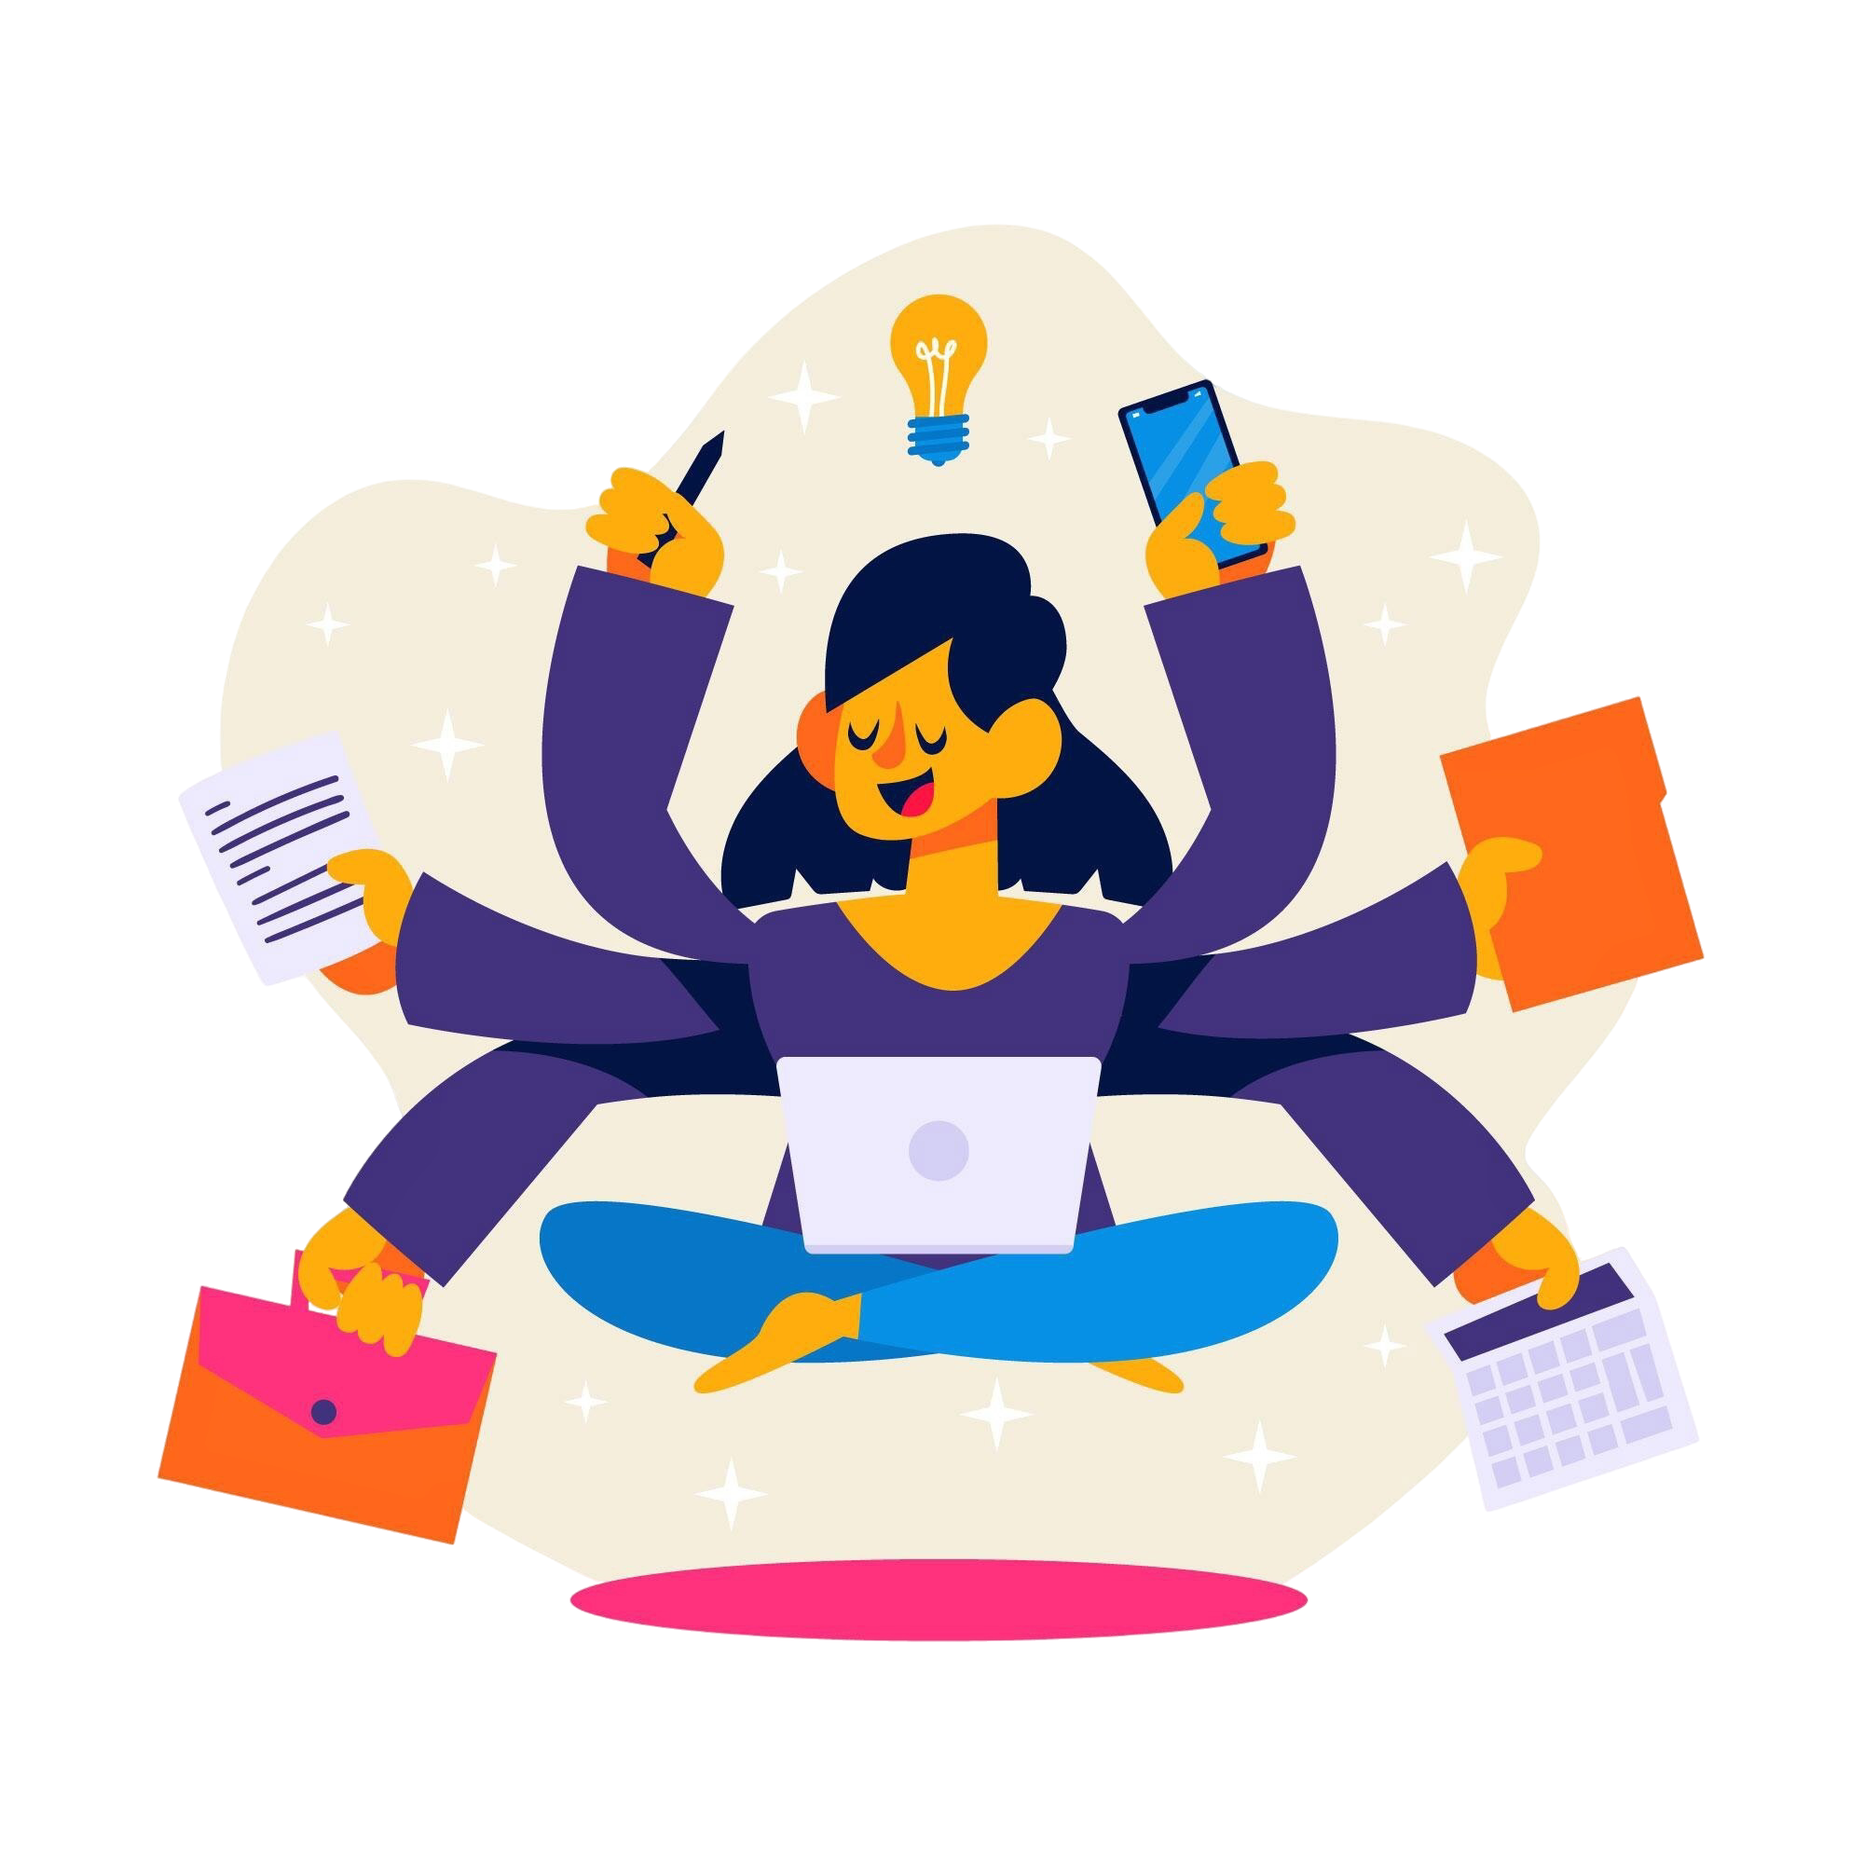
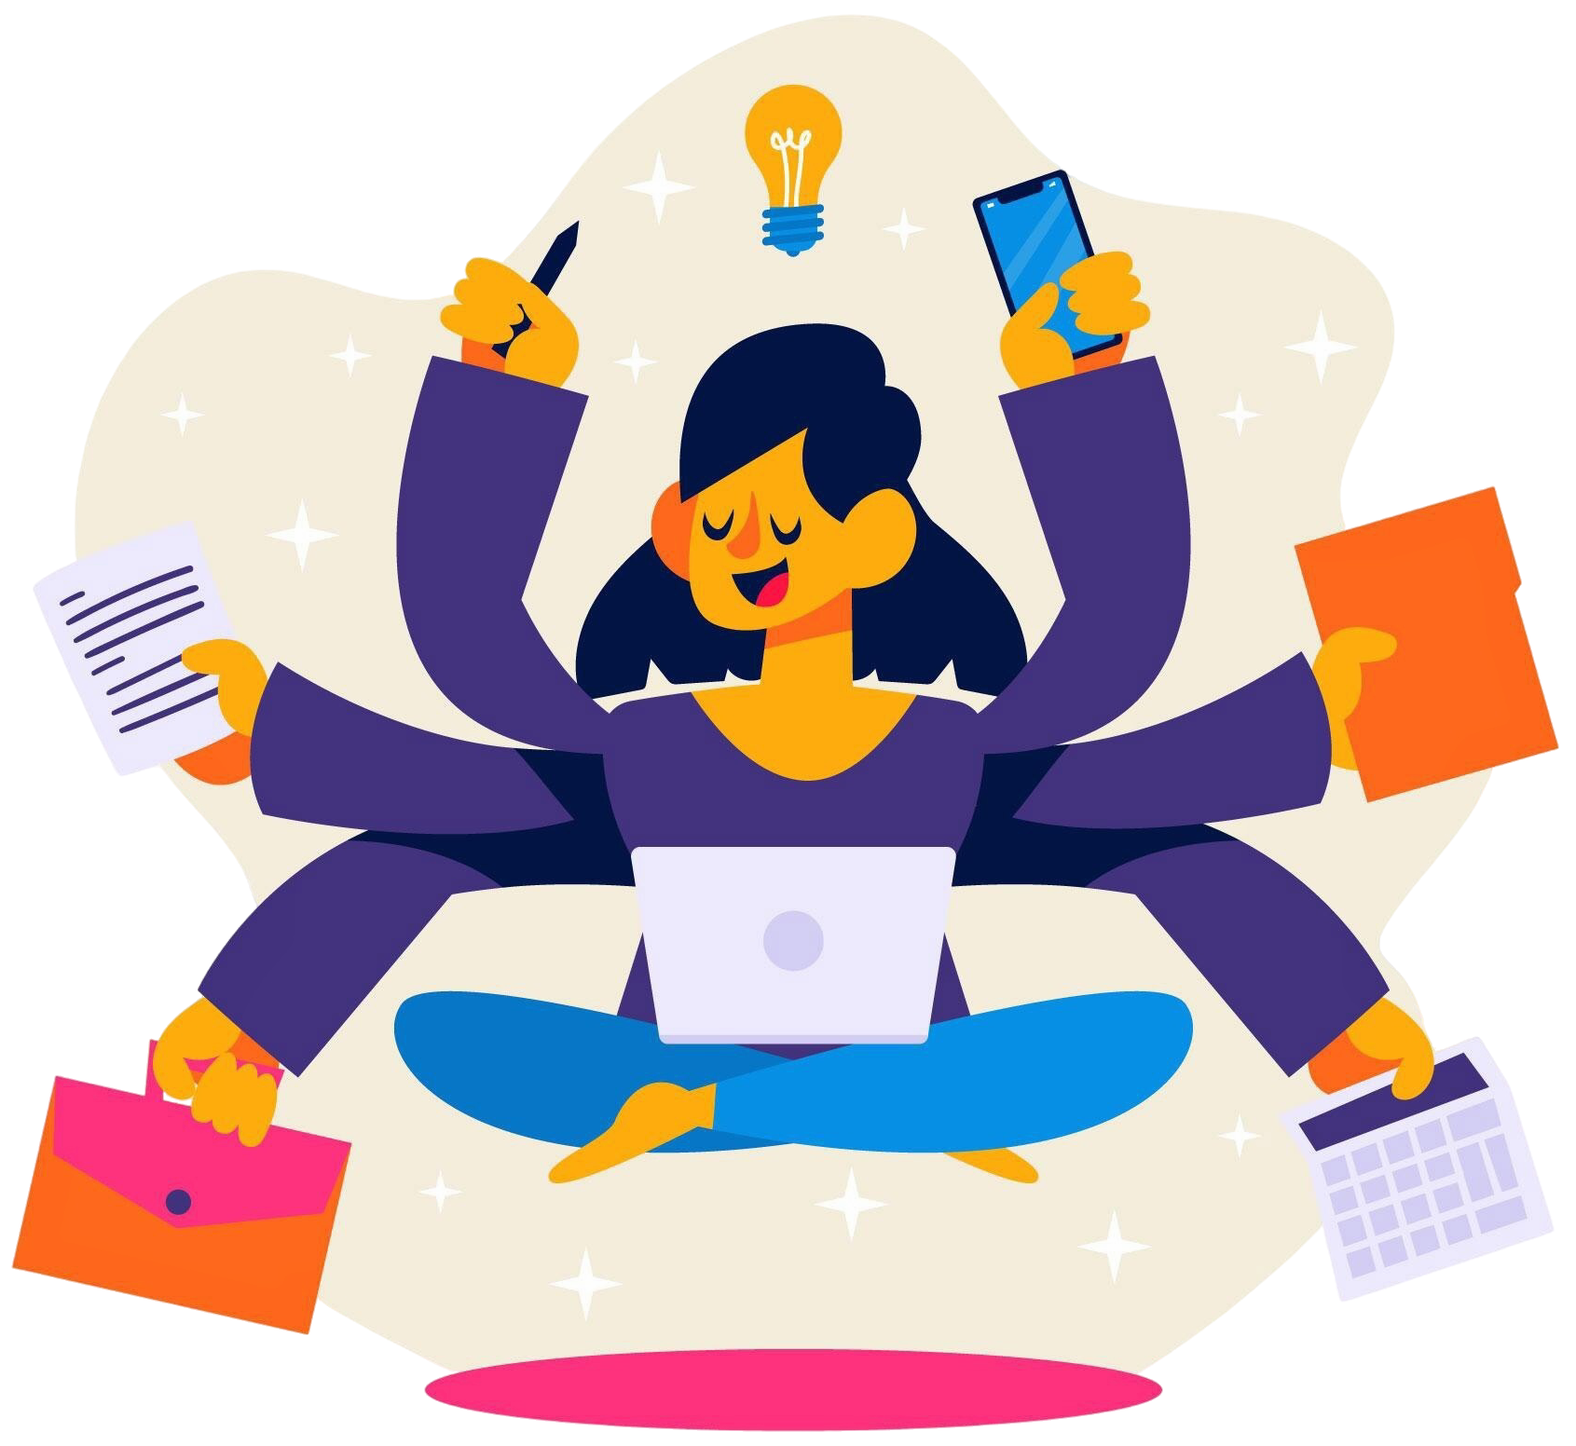
not found page and changes in images

diff --git a/src/pages/DashboardFooter.tsx b/src/pages/DashboardFooter.tsx
@@ -1,14 +1,23 @@
-import { Mail, MapPin, Phone, Shrub } from "lucide-react";
-import { Link } from "react-router-dom";
+import { Github, GraduationCap, Linkedin, LinkedinIcon, LogOut, LucideLinkedin, Mail, MapPin, Phone, Shrub } from "lucide-react";
+import { Link, useNavigate } from "react-router-dom";
+import { useAuth } from "../contexts/AuthContext";
 
 const DashboardFooter = () => {
+    const navigate = useNavigate();
+    const { user, logout } = useAuth();
+
+    const handleLogout = () => {
+        logout();
+        navigate('/');
+    };
+
     return (
         <>
             <footer className="bg-white dark:bg-gray-800 text-deep-purple pt-10 pb-5 border-t">
                 <div className="container mx-auto px-6 text-center">
-                    <div className="max-w-6xl mx-auto grid grid-cols-1 md:grid-cols-3 gap-8 text-center md:text-left">
+                    <div className="max-w-6xl mx-auto grid grid-cols-1 md:grid-cols-2 lg:grid-cols-4 gap-8 text-center md:text-left">
                         <div>
-                            <Link to="/" className="text-xl font-bold text-dark-slate mb-4 font-poppins flex justify-center md:justify-start text-deep-purple dark:text-purple-400">GrowMate<Shrub className="ml-[2px] text-green-500 rotate-[15deg]" size={28} /></Link>
+                            <Link to="/" className="text-xl font-bold mb-4 font-poppins flex justify-center md:justify-start text-deep-purple dark:text-purple-400">GrowMate<Shrub className="ml-[2px] text-green-500 rotate-[15deg]" size={28} /></Link>
                             <p className="text-gray-600 dark:text-gray-200 leading-relaxed text-md opacity-90 font-inter">
                                 Dedicated to empowering individuals in their journey of self-improvement through effective habit tracking and motivation.
                             </p>
@@ -18,22 +27,15 @@ const DashboardFooter = () => {
                             <h3 className="text-xl font-bold text-dark-slate dark:text-purple-400 mb-4">Quick Links</h3>
                             <ul className="space-y-2">
                                 <li><Link to="/" className="text-deep-purple dark:text-white transition-colors font-medium inline-block border-deep-purple font-inter hover:text-teal dark:hover:text-teal duration-300">Home</Link></li>
-                                <li><Link to="about-us" className="text-deep-purple dark:text-white transition-colors font-medium inline-block border-deep-purple font-inter hover:text-teal dark:hover:text-teal duration-300">About Us</Link></li>
+                                <li><Link to="/about-us" className="text-deep-purple dark:text-white transition-colors font-medium inline-block border-deep-purple font-inter hover:text-teal dark:hover:text-teal duration-300">About Us</Link></li>
                                 <li>
-                                    <Link
-                                        to="/login"
-                                        className="text-deep-purple dark:text-white transition-colors font-medium inline-block border-deep-purple font-inter hover:text-teal dark:hover:text-teal duration-300"
+                                    <button
+                                        onClick={handleLogout}
+                                        className="flex items-center rounded-tr-lg rounded-bl-lg text-red-400 transition-colors"
                                     >
-                                        Sign In
-                                    </Link>
-                                </li>
-                                <li>
-                                    <Link
-                                        to="/signup"
-                                        className="text-deep-purple dark:text-white transition-colors font-medium inline-block border-deep-purple font-inter hover:text-teal dark:hover:text-teal duration-300"
-                                    >
-                                        Sign Up
-                                    </Link>
+                                        <span className="font-medium font-inter mr-2 hover:mr-4 duration-300 ease-linear">Logout</span>
+                                        <LogOut className="w-5 h-5" />
+                                    </button>
                                 </li>
                             </ul>
                         </div>
@@ -55,14 +57,23 @@ const DashboardFooter = () => {
                                 </li>
                             </ul>
                         </div>
+
+                        <div className="inline-block mx-auto">
+                            <h3 className="text-xl font-bold text-dark-slate dark:text-purple-400 mb-4 font-poppins">Social Links</h3>
+                            <ul className="flex justify-between items-center space-x-3">
+                                <li><Link to="https://www.linkedin.com/in/om-pimpale-83a524279" target="_blank" className="text-deep-purple dark:text-white transition-colors font-medium inline-block border-deep-purple font-inter hover:text-teal dark:hover:text-teal duration-300 p-2 hover:bg-gray-200 hover:dark:bg-gray-700 rounded-full"><Linkedin size={24} /></Link></li>
+                                <li><Link to="https://github.com/OmPimpale" target="_blank" className="text-deep-purple dark:text-white transition-colors font-medium inline-block border-deep-purple font-inter hover:text-teal dark:hover:text-teal duration-300 p-2 hover:bg-gray-200 hover:dark:bg-gray-700 rounded-full"><Github size={24} /></Link></li>
+                                <li><Link to="https://ompimpale.github.io/Om_Portfolio/" target="_blank" className="text-deep-purple dark:text-white transition-colors font-medium inline-block border-deep-purple font-inter hover:text-teal dark:hover:text-teal duration-300 p-2 hover:bg-gray-200 hover:dark:bg-gray-700 rounded-full"><GraduationCap size={24} /></Link></li>
+                            </ul>
+                        </div>
                     </div>
 
                     <div className="border-t border-gray-300 mt-10 pt-6 text-center text-gray-600 dark:text-gray-200 text-[13px] md:flex justify-between ">
                         <p className=" font-inter">&copy; {new Date().getFullYear()} GrowMate. All rights reserved.</p>
                         <div className="flex justify-center items-center mt-4 md:mt-0 space-x-4">
-                            <Link to="#" className=" font-inter hover:text-deep-purple dark:hover:text-teal transition-colors duration-300">Privacy Policy</Link>
+                            <Link to="/page-not-found" className=" font-inter hover:text-deep-purple dark:hover:text-teal transition-colors duration-300">Privacy Policy</Link>
                             <span className="text-gray-400">|</span>
-                            <Link to="/" className=" font-inter hover:text-deep-purple dark:hover:text-teal transition-colors duration300">Terms of Service</Link>
+                            <Link to="/page-not-found" className=" font-inter hover:text-deep-purple dark:hover:text-teal transition-colors duration300">Terms of Service</Link>
                         </div>
                     </div>
                 </div>

diff --git a/src/pages/Footer.tsx b/src/pages/Footer.tsx
@@ -1,4 +1,4 @@
-import { Mail, MapPin, Phone, Shrub } from "lucide-react";
+import { Github, GraduationCap, Linkedin, Mail, MapPin, Phone, Shrub } from "lucide-react";
 import { Link } from "react-router-dom";
 
 const Footer = () => {
@@ -6,7 +6,7 @@ const Footer = () => {
         <>
             <footer className="bg-white text-deep-purple pt-10 pb-5 border-t">
                 <div className="container mx-auto px-6 text-center">
-                    <div className="max-w-6xl mx-auto grid grid-cols-1 md:grid-cols-3 gap-8 text-center md:text-left">
+                    <div className="max-w-6xl mx-auto grid grid-cols-1 md:grid-cols-2 lg:grid-cols-4 gap-8 text-center md:text-left">
                         <div>
                             <Link to="/" className="text-xl font-bold text-dark-slate mb-4 font-poppins flex justify-center md:justify-start text-deep-purple">GrowMate<Shrub className="ml-[2px] text-green-500 rotate-[15deg]" size={28} /></Link>
                             <p className="text-gray-600 leading-relaxed text-md opacity-90 font-inter">
@@ -55,14 +55,23 @@ const Footer = () => {
                                 </li>
                             </ul>
                         </div>
+
+                        <div className="inline-block mx-auto">
+                            <h3 className="text-xl font-bold text-dark-slate dark:text-purple-400 mb-4 font-poppins">Social Links</h3>
+                            <ul className="flex justify-between items-center space-x-3">
+                                <li><Link to="https://www.linkedin.com/in/om-pimpale-83a524279" target="_blank" className="text-deep-purple dark:text-white transition-colors font-medium inline-block border-deep-purple font-inter hover:text-teal dark:hover:text-teal duration-300 p-2 hover:bg-gray-200 rounded-full"><Linkedin size={24} /></Link></li>
+                                <li><Link to="https://github.com/OmPimpale" target="_blank" className="text-deep-purple dark:text-white transition-colors font-medium inline-block border-deep-purple font-inter hover:text-teal dark:hover:text-teal duration-300 p-2 hover:bg-gray-200 rounded-full"><Github size={24} /></Link></li>
+                                <li><Link to="https://ompimpale.github.io/Om_Portfolio/" target="_blank" className="text-deep-purple dark:text-white transition-colors font-medium inline-block border-deep-purple font-inter hover:text-teal dark:hover:text-teal duration-300 p-2 hover:bg-gray-200 rounded-full"><GraduationCap size={24} /></Link></li>
+                            </ul>
+                        </div>
                     </div>
 
                     <div className="border-t border-gray-300 mt-10 pt-6 text-center text-gray-600 text-[13px] md:flex justify-between ">
                         <p className=" font-inter">&copy; {new Date().getFullYear()} GrowMate. All rights reserved.</p>
                         <div className="flex justify-center items-center mt-4 md:mt-0 space-x-4">
-                            <Link to="#" className=" font-inter hover:text-deep-purple transition-colors duration-300">Privacy Policy</Link>
+                            <Link to="/page-not-found" className=" font-inter hover:text-deep-purple transition-colors duration-300">Privacy Policy</Link>
                             <span className="text-gray-400">|</span>
-                            <Link to="/" className=" font-inter hover:text-deep-purple transition-colors duration300">Terms of Service</Link>
+                            <Link to="/page-not-found" className=" font-inter hover:text-deep-purple transition-colors duration300">Terms of Service</Link>
                         </div>
                     </div>
                 </div>

diff --git a/src/pages/Navbar.tsx b/src/pages/Navbar.tsx
@@ -3,6 +3,7 @@ import { Menu, X, Shrub, LogOut } from "lucide-react";
 import { useEffect, useState } from "react";
 import { Link, useNavigate } from "react-router-dom";
 import { useAuth } from "../contexts/AuthContext";
+import userImg from "../images/user.jpg"
 
 const Navbar = () => {
     const [isMenuOpen, setIsMenuOpen] = useState(false);
@@ -84,7 +85,7 @@ const Navbar = () => {
                                     to="/dashboard"
                                     className="rounded-full"
                                 >
-                                    <img className="rounded-full w-10" src="https://img.freepik.com/premium-vector/avatar-icon0002_750950-43.jpg?uid=R204309784&ga=GA1.1.1840392417.1724061476&semt=ais_hybrid&w=740" alt="user" />
+                                    <img className="rounded-full w-10" src={userImg} alt="user" loading="lazy" />
                                 </Link>
                             </>
                             ) : (
@@ -158,7 +159,7 @@ const Navbar = () => {
                                     to="/dashboard"
                                     className="rounded-full"
                                 >
-                                    <img className="rounded-full w-12 my-2" src="https://img.freepik.com/premium-vector/avatar-icon0002_750950-43.jpg?uid=R204309784&ga=GA1.1.1840392417.1724061476&semt=ais_hybrid&w=740" alt="user" />
+                                    <img className="rounded-full w-12 my-2" src={userImg} alt="user" loading="lazy" />
                                 </Link>
                             </>
                             ) : (

diff --git a/src/components/NotFound.tsx b/src/components/NotFound.tsx
@@ -1,0 +1,28 @@
+import Footer from "../pages/Footer";
+import Navbar from "../pages/Navbar";
+import notFoundImg from "../images/NotFound.jpg"
+import { Link } from "react-router-dom";
+
+const NotFound = () => {
+    return (
+        <>
+            <section>
+                <Navbar />
+                <div className="py-12 px-5 mt-[86.8px] lg:mt-[80.8px] max-w-3xl mx-auto">
+                    <h4 className="text-center font-poppins text-dark-slate text-3xl mb-5">Page Not Found 🙈</h4>
+                    <p className="text-center mb-10 font-inter text-xl">Looks like you've taken a detour from your growth journey.</p>
+                    <img src={notFoundImg} alt="Page Not Found" loading="lazy" className="rounded-lg shadow-2xl shadow-gray-400" />
+                    <p className="text-center mt-10 font-inter text-xl">But don’t worry — every habit journey has a few bumps.</p>
+                    <Link to="/" className="flex justify-center">
+                        <button className="bg-deep-purple text-white px-6 py-3 rounded-tr-xl rounded-bl-xl hover:bg-purple-800 transition-colors font-medium text-inter mt-10">
+                            Get Back on Track
+                        </button>
+                    </Link>
+                </div>
+                <Footer />
+            </section>
+        </>
+    )
+}
+
+export default NotFound;

diff --git a/src/pages/Settings.tsx b/src/pages/Settings.tsx
@@ -7,6 +7,7 @@ import { useTheme } from '../contexts/ThemeContext';
 import { useHabits } from '../contexts/HabitContext';
 import toast, { Toaster } from 'react-hot-toast';
 import DashboardFooter from './DashboardFooter';
+import userImg from "../images/user.jpg"
 
 const Settings: React.FC = () => {
   const { user, updateUser } = useAuth();
@@ -114,7 +115,7 @@ const Settings: React.FC = () => {
                       <SquarePen size={38} className='absolute right-3 top-3 text-deep-purple dark:text-purple-400 p-2 rounded-full hover:bg-purple-200 dark:hover:bg-gray-200 duration-300' />
                     )}
                 </button>
-                <img className="rounded-full w-20 mr-5" src="https://img.freepik.com/premium-vector/avatar-icon0002_750950-43.jpg?uid=R204309784&ga=GA1.1.1840392417.1724061476&semt=ais_hybrid&w=740" alt="user" />
+                 <img className="rounded-full w-16 mr-4" src={userImg} alt="user" loading="lazy" />
                 <h2 className="text-2xl font-semibold text-gray-800 dark:text-white">
                   User Profile
                 </h2>

diff --git a/src/App.tsx b/src/App.tsx
@@ -13,6 +13,7 @@ import Settings from './pages/Settings';
 import ProtectedRoute from './components/ProtectedRoute';
 import AboutUs from './pages/AboutUs';
 import { Toaster } from 'react-hot-toast';
+import NotFound from './components/NotFound';
 
 function App() {
   return (
@@ -26,6 +27,7 @@ function App() {
                 <Route path="/login" element={<Login />} />
                 <Route path="/signup" element={<Signup />} />
                 <Route path='/about-us' element={<AboutUs />} />
+                <Route path='page-not-found' element={<NotFound />} />
                 <Route path="/dashboard" element={
                   <ProtectedRoute>
                     <Dashboard />

diff --git a/index.html b/index.html
@@ -4,7 +4,7 @@
     <meta charset="UTF-8" />
     <link rel="icon" type="image/svg+xml" href="./src/svg/trophy.svg" />
     <meta name="viewport" content="width=device-width, initial-scale=1.0" />
-    <title>GrowMate - Personal Habit Tracker</title>
+    <title>GrowMate | Build Habits That Last</title>
     <link
       href="https://fonts.googleapis.com/css2?family=Inter:wght@400;500;600&family=Poppins:wght@500;600;700&display=swap"
       rel="stylesheet"

diff --git a/src/pages/Landing.tsx b/src/pages/Landing.tsx
@@ -8,7 +8,7 @@ import Stats from "./Stats";
 import Features from "./Features";
 import Testimonials from "./Testimonials";
 import SectionCTA from "./SectionCTA";
-import homeImg from '../images/homeImg1.png'
+import homeImg from '../images/homeImg.png'
 
 const Landing: React.FC = () => {
 
